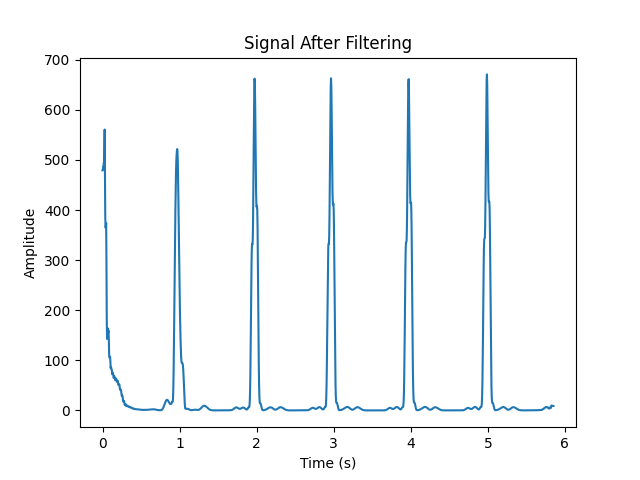
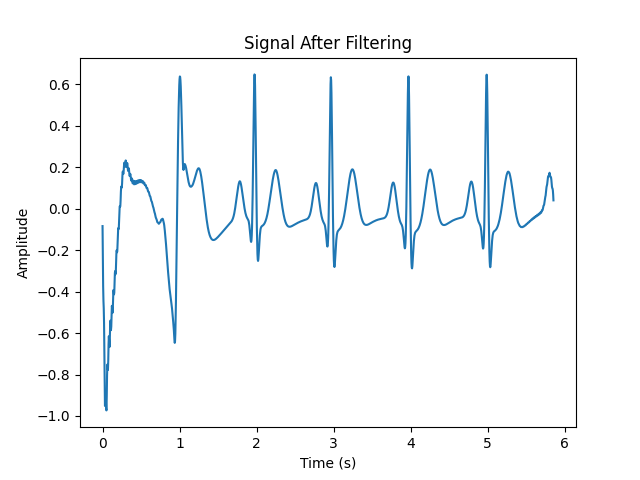
finalized code

diff --git a/header.py b/header.py
@@ -257,9 +257,9 @@ def get_missing_peaks(fileName, N):
 
     # get index of peaks above threshold
     above_threshold = np.where(diff > threshold)[0]
-    missing_peaks_time = np.array([], dtype=float)
 
     threshold = threshold/1000
+    ppeaks = []
 
     for i in above_threshold:
         peak_before_time = peaks_timestamp[i]
@@ -269,10 +269,8 @@ def get_missing_peaks(fileName, N):
 
         for j in range(num_peaks):
             if np.absolute(peak_before_time + threshold*(j+1) - peak_after_time) >= 0.5 * threshold:
-                missing_peaks_time = np.append(
-                    missing_peaks_time, peak_before_time + threshold*(j+1))
-
-    return missing_peaks_time
+                ppeaks.append(peak_before_time + threshold*(j+1))
+    return ppeaks
 
 
 def plot_signal(data, sampling_rate, title, output_file=None):
@@ -298,9 +296,14 @@ def part_1_a():
     data = data[0:1500]
     plot_signal(data, 256, "Signal After Filtering",
                 "./part1_results/before_filtering.png")
+    
+    notched = notch_filter(data, 256, 50, 30)
+    bandpass = bandpass_filter(notched, 256, 1, 50)
+    plot_signal(bandpass, 256, "Signal After Filtering",
+                "./part1_results/after_filtering.png")
 
-    plot_after_moving_average('DataN.txt', N, False, 1500, 0,
-                              "Signal After Filtering", "./part1_results/after_filtering.png")
+    # plot_after_moving_average('DataN.txt', N, False, 1500, 0,
+                            #   "Signal After Filtering", "./part1_results/after_filtering.png")
 
 
 def part_1_b():
@@ -344,3 +347,10 @@ def part_1_d():
     peaks, diff = r_wave_detector('DataN.txt', N, 1500, 0)
     np.savetxt("./part1_results/n_25/peaks_values.txt", peaks, fmt='%d')
     np.savetxt("./part1_results/n_25/intervals_values.txt", diff, fmt='%d')
+
+def part2():
+    N = 25
+    missing_peaks = get_missing_peaks('Data2.txt', N)
+    plot_after_moving_average('Data2.txt', N, True, 7500, 0,
+                                "Peaks on Moving Average Filter", "./part2_results/peaks_moving_avg.png")
+    np.savetxt("./part2_results/missing_peaks.txt", missing_peaks, fmt='%f')

diff --git a/part2.py b/part2.py
@@ -1,14 +1,4 @@
-from header import *
-
-N = 15
+from header import part2
 
 if __name__ == '__main__':
-    
-    data = read_file('Data2.txt')
-    data = data[0:1500]
-    # plot_signal(data, 256, "raw data")
-    plot_after_moving_average('Data2.txt', N)
-    # plot_intervals('Data2.txt', N)
-    # peaks, diff = r_wave_detector('Data2.txt', N)
-    # print("Peaks: ", peaks)
-    # print("\n\nRR intervals: ", diff)
+    part2()
